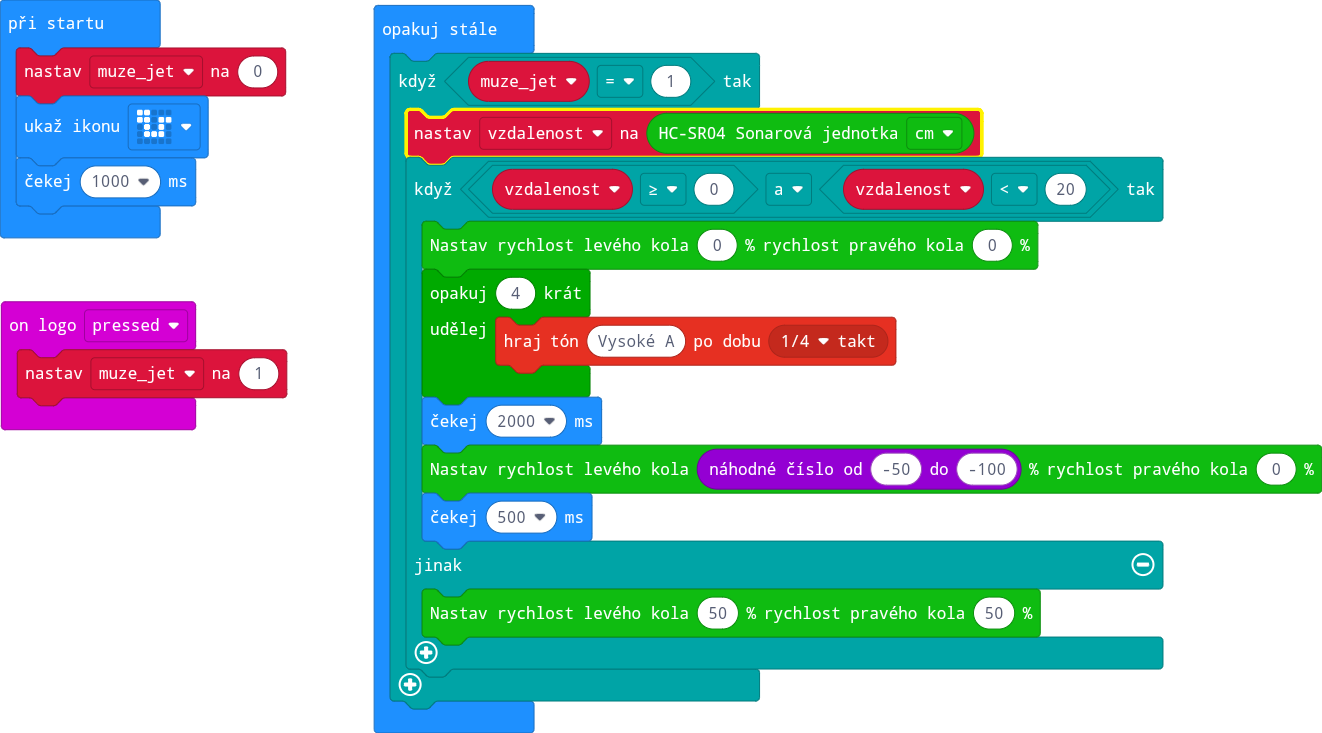
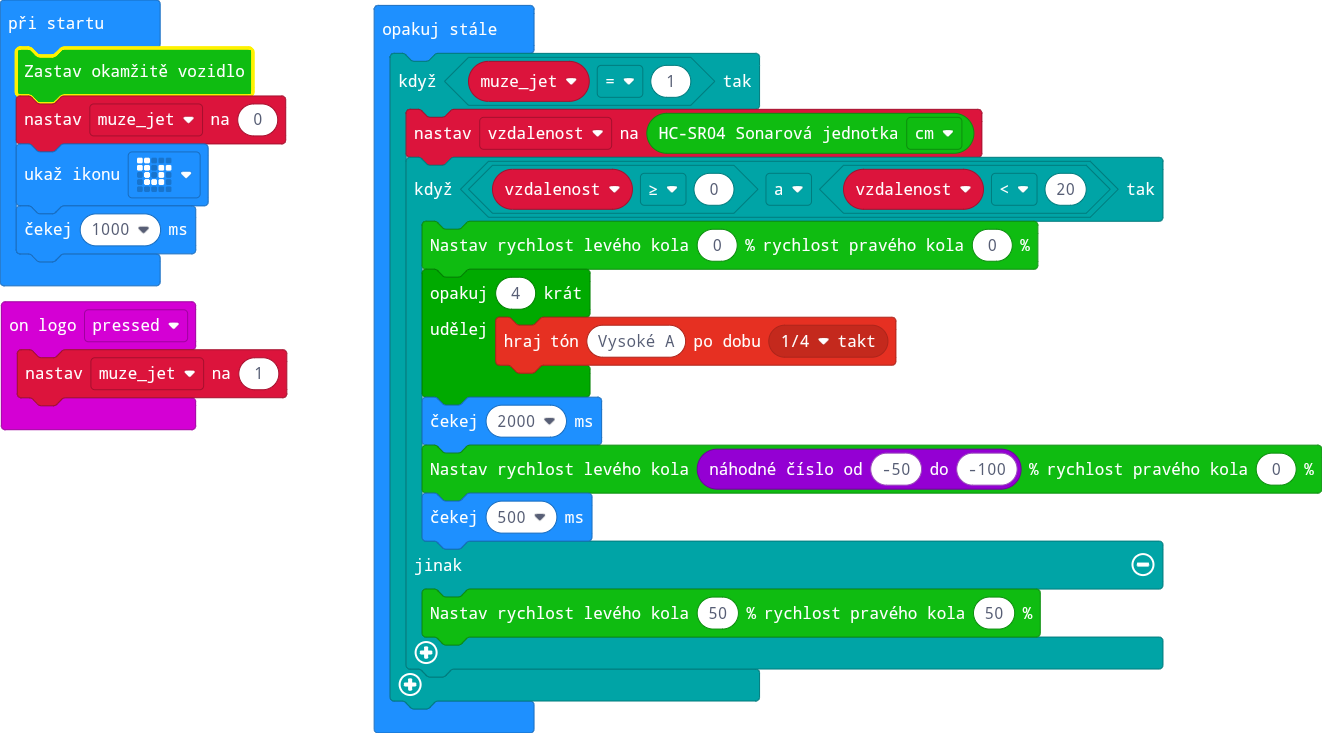
Aktualizovat main.blocks, main.ts

Changed region(s): [[0.0, 0.06, 0.2171, 0.3902], [0.3411, 0.1201, 0.7443, 0.1801], [0.3101, 0.1501, 0.3411, 0.1801]]

diff --git a/main.ts b/main.ts
@@ -3,6 +3,7 @@ input.onLogoEvent(TouchButtonEvent.Pressed, function () {
 })
 let vzdalenost = 0
 let muze_jet = 0
+cuteBot.stopcar()
 muze_jet = 0
 basic.showIcon(IconNames.Snake)
 basic.pause(1000)
